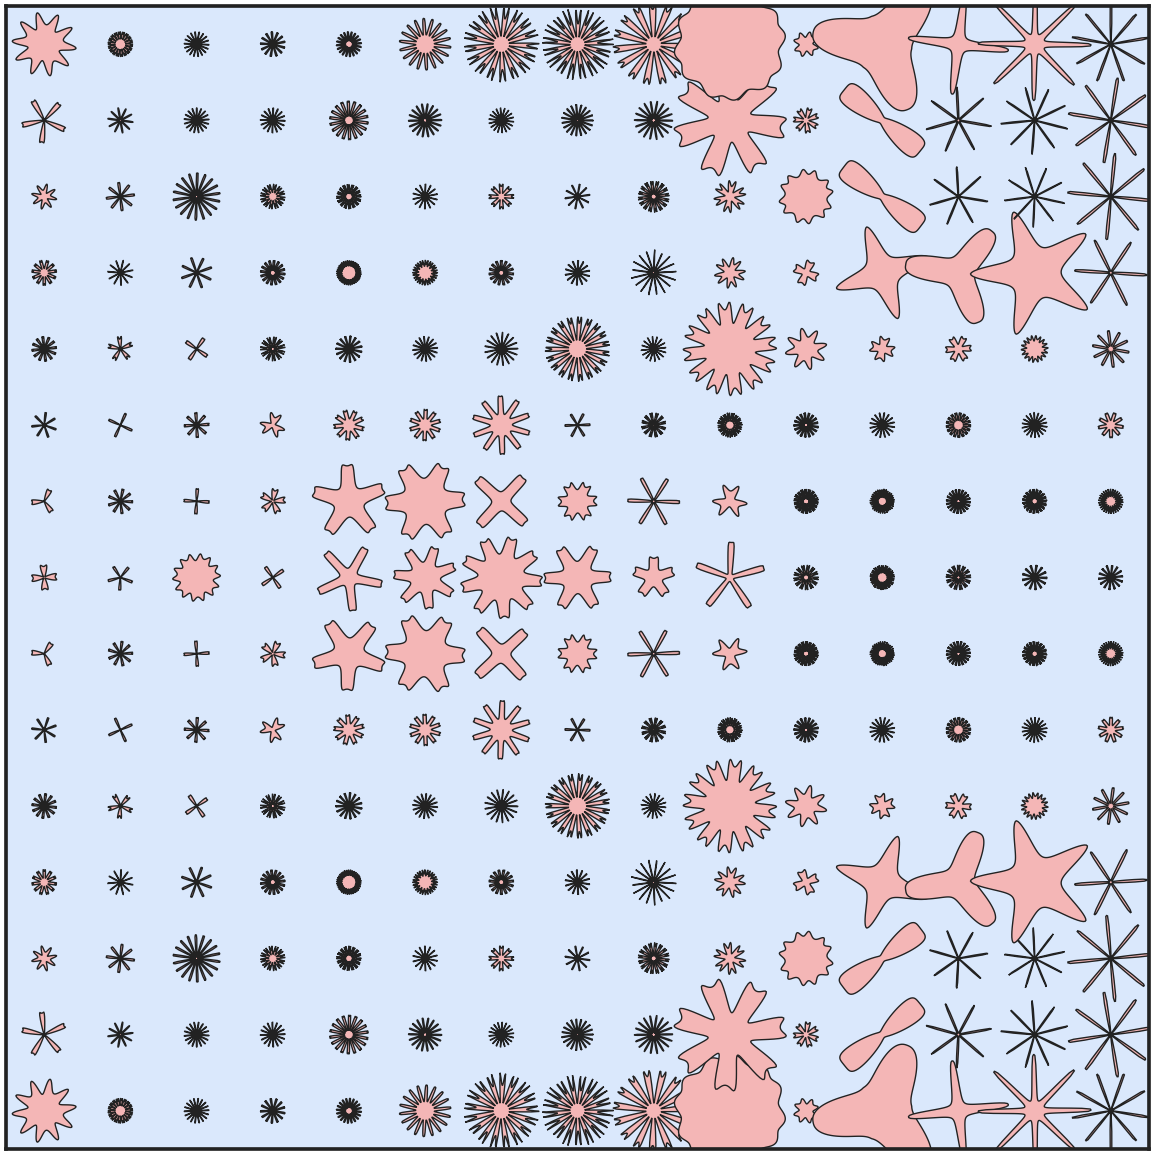
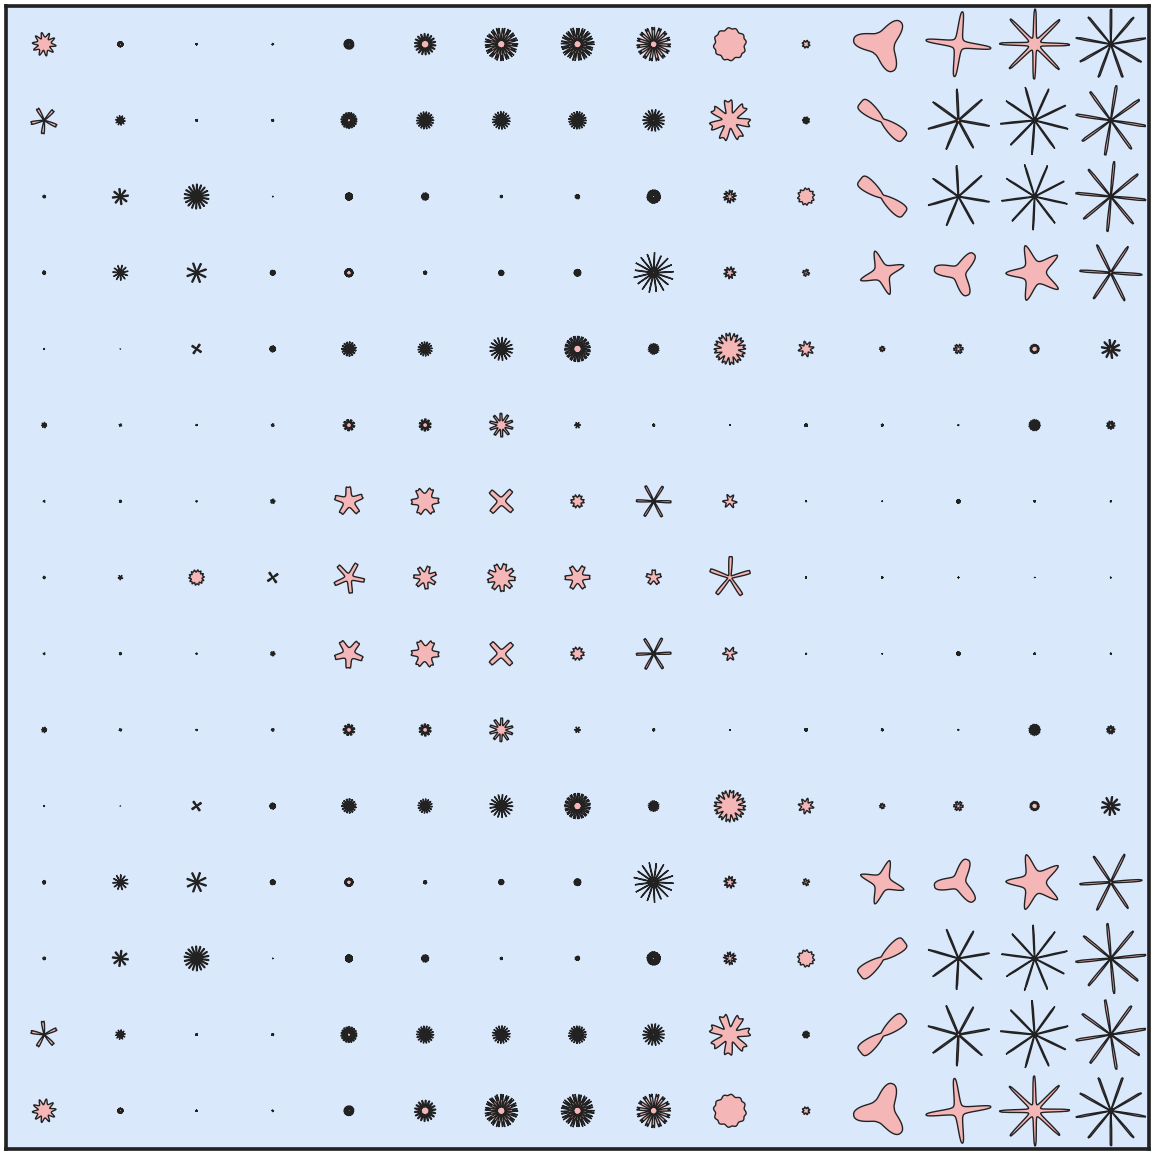
Renderer: draw micro-structures at TRUE size (no overlap), fixing the over-scaled version
User: the shapes were drawn too large and overlapped neighbours. The previous renderer used scale = 0.92*sqrt(vf)/rmax, which let the largest shape reach radius 0.92 while the half-cell is only 0.5 -> shapes spilled into and overlapped adjacent cells.

Fix: a single GLOBAL scale g = 0.46 / percentile(rmax, 97) preserves true relative sizes and makes the 97th-percentile shape just fit its cell; per-shape cap min(g, 0.46/rmax) prevents the few largest from overlapping. High-permeability (small-vf) cells now render small with fluid (blue) around them; dense cells pack tightly but do not overlap -- matching the paper's Figs 11/16. Applied to scripts/run_to.py save_microstructures and tools/rerender_design.py; re-rendered the faithful design figures and updated the new Feishu doc (FBdQ...) section 4.

diff --git a/scripts/run_to.py b/scripts/run_to.py
@@ -86,18 +86,18 @@ def build(config_data, vae_dir, seed=77):
 def save_microstructures(mstr_params, theta, nelx, nely, path):
     """Paper-faithful micro-structure plot (cf. Figs 11/16).
 
-    Each super-shape is drawn at its TRUE outline (no clip-to-square, which the
-    earlier version used and which squared off circles/leaves). Its size grows
-    with the solid volume fraction (sqrt, with a visible floor) so dense cells
-    read as large packed shapes and high-permeability cells as small ones --
-    reproducing the size variation of the paper's designs -- on the paper's
-    pink-on-light-blue palette.
+    Each super-shape is drawn at its TRUE outline (no clip-to-square) and at its
+    TRUE relative size: a single GLOBAL scale maps the shapes into the grid so
+    the 97th-percentile shape just fits its cell (half-cell = 0.5), and the few
+    larger ones are capped so NOTHING overlaps a neighbour. Small (high-
+    permeability) cells therefore stay small with fluid (light blue) around them,
+    while dense cells pack large -- matching the paper's pink-on-blue figures.
     """
     x, y = supershape.get_euclidean_coords_of_points_on_surf_super_shape(mstr_params, theta)
-    area = np.abs(0.5 * np.sum(x * np.roll(y, -1, 1) - np.roll(x, -1, 1) * y, axis=1))
     rmax = np.max(np.hypot(x, y), axis=1) + 1e-12
-    vf = np.sqrt(area / (np.max(area) + 1e-12))
-    scale = 0.92 * np.clip(vf, 0.18, 1.0) / rmax        # half-cell == 0.5
+    half = 0.46                                         # touch margin inside the 0.5 half-cell
+    g = half / np.percentile(rmax, 97)                  # global true-size gain
+    scale = np.minimum(g, half / rmax)                  # cap the top few -> no overlap
     fig, ax = plt.subplots(figsize=(nelx / 4 + 1.5, nely / 4 + 1.5))
     ax.set_facecolor("#DAE8FC")
     ctr = 0

diff --git a/tools/rerender_design.py b/tools/rerender_design.py
@@ -33,15 +33,14 @@ def main():
     mstr = ss.SuperShapes(*[sp[:, i] for i in range(8)])
     x, y = ss.get_euclidean_coords_of_points_on_surf_super_shape(mstr, theta)
 
-    # per-shape solid area fraction (for --size vf): polygon area via shoelace,
-    # normalised by the largest so the densest cell fills the cell.
-    area = np.abs(0.5 * np.sum(x * np.roll(y, -1, 1) - np.roll(x, -1, 1) * y, axis=1))
+    # FAITHFUL sizing: one GLOBAL scale preserves true relative sizes, set so the
+    # 97th-percentile shape just fits its cell (half-cell = 0.5); the few larger
+    # ones are capped so nothing overlaps a neighbour. Small (high-permeability)
+    # cells therefore stay small with fluid (blue) around them.
     rmax = np.max(np.hypot(x, y), axis=1) + 1e-12
-    if a.size == "vf":
-        vf = np.sqrt(area / (np.max(area) + 1e-12))          # 0..1
-        scale = a.margin * np.clip(vf, 0.18, 1.0) / rmax     # keep a visible floor
-    else:
-        scale = a.margin / rmax                               # every shape fills its cell
+    half = 0.5 * a.margin                                     # touch margin inside half-cell
+    g = half / np.percentile(rmax, 97)                       # global true-size gain
+    scale = np.minimum(g, half / rmax)                       # cap the top few to avoid overlap
 
     fig, ax = plt.subplots(figsize=(nelx / 4 + 1.5, nely / 4 + 1.5))
     ax.set_facecolor("#DAE8FC")

diff --git a/docs/feishu_doc2.md b/docs/feishu_doc2.md
@@ -131,7 +131,9 @@ Windows 11 + WSL2 Ubuntu-22.04，32 核 / 62 GB / RTX 5000 Ada 16 GB。`virtuale
 
 旧 `save_microstructures` 用 `np.clip` 把超出单胞的形状**硬裁到方框**，使圆/叶被切成方块；小形状又画得过小、留大空隙 → 整体"点状、稀疏、失真"，与论文"密铺、轮廓清晰"差距明显。
 
-**对齐方法**：重写渲染器——按真实轮廓绘制（无硬裁剪），每个形状缩放到干净地填充单胞，尺寸随 √vf 变化（密实胞→大形状、高渗透胞→小形状），论文配色。**仅此一项即让弯管/分叉管设计图与论文 Fig 11/16 高度接近**（同一份设计数据，重渲前后判若两图）。
+**对齐方法**：重写渲染器——(1) 按**真实轮廓**绘制（无硬裁剪，圆/叶不再被切成方块）；(2) **如实尺寸、不重叠**：用一个**全局缩放**保持各形状的真实相对大小，令第 97 百分位的形状刚好填满单胞（半宽 0.5），极少数更大的封顶——**高渗透（小 vf）胞画得小、周围留出流体（蓝），密实胞紧密相切但不重叠**。论文配色（pink #F4B6B6 + 黑边 + 浅蓝底 #DAE8FC）。
+
+> 注：早期一版渲染器误用 `0.92·√vf/rmax`，使最大形状半径达 0.92 而单胞半宽仅 0.5 → 形状**过大、相互重叠**；已修正为上述全局如实缩放。**仅渲染器一项即让设计图与论文 Fig 11/16 高度接近**（同一份设计数据，重渲前后判若两图）。
 
 ### 问题 2：数据采样范围偏离论文
 
